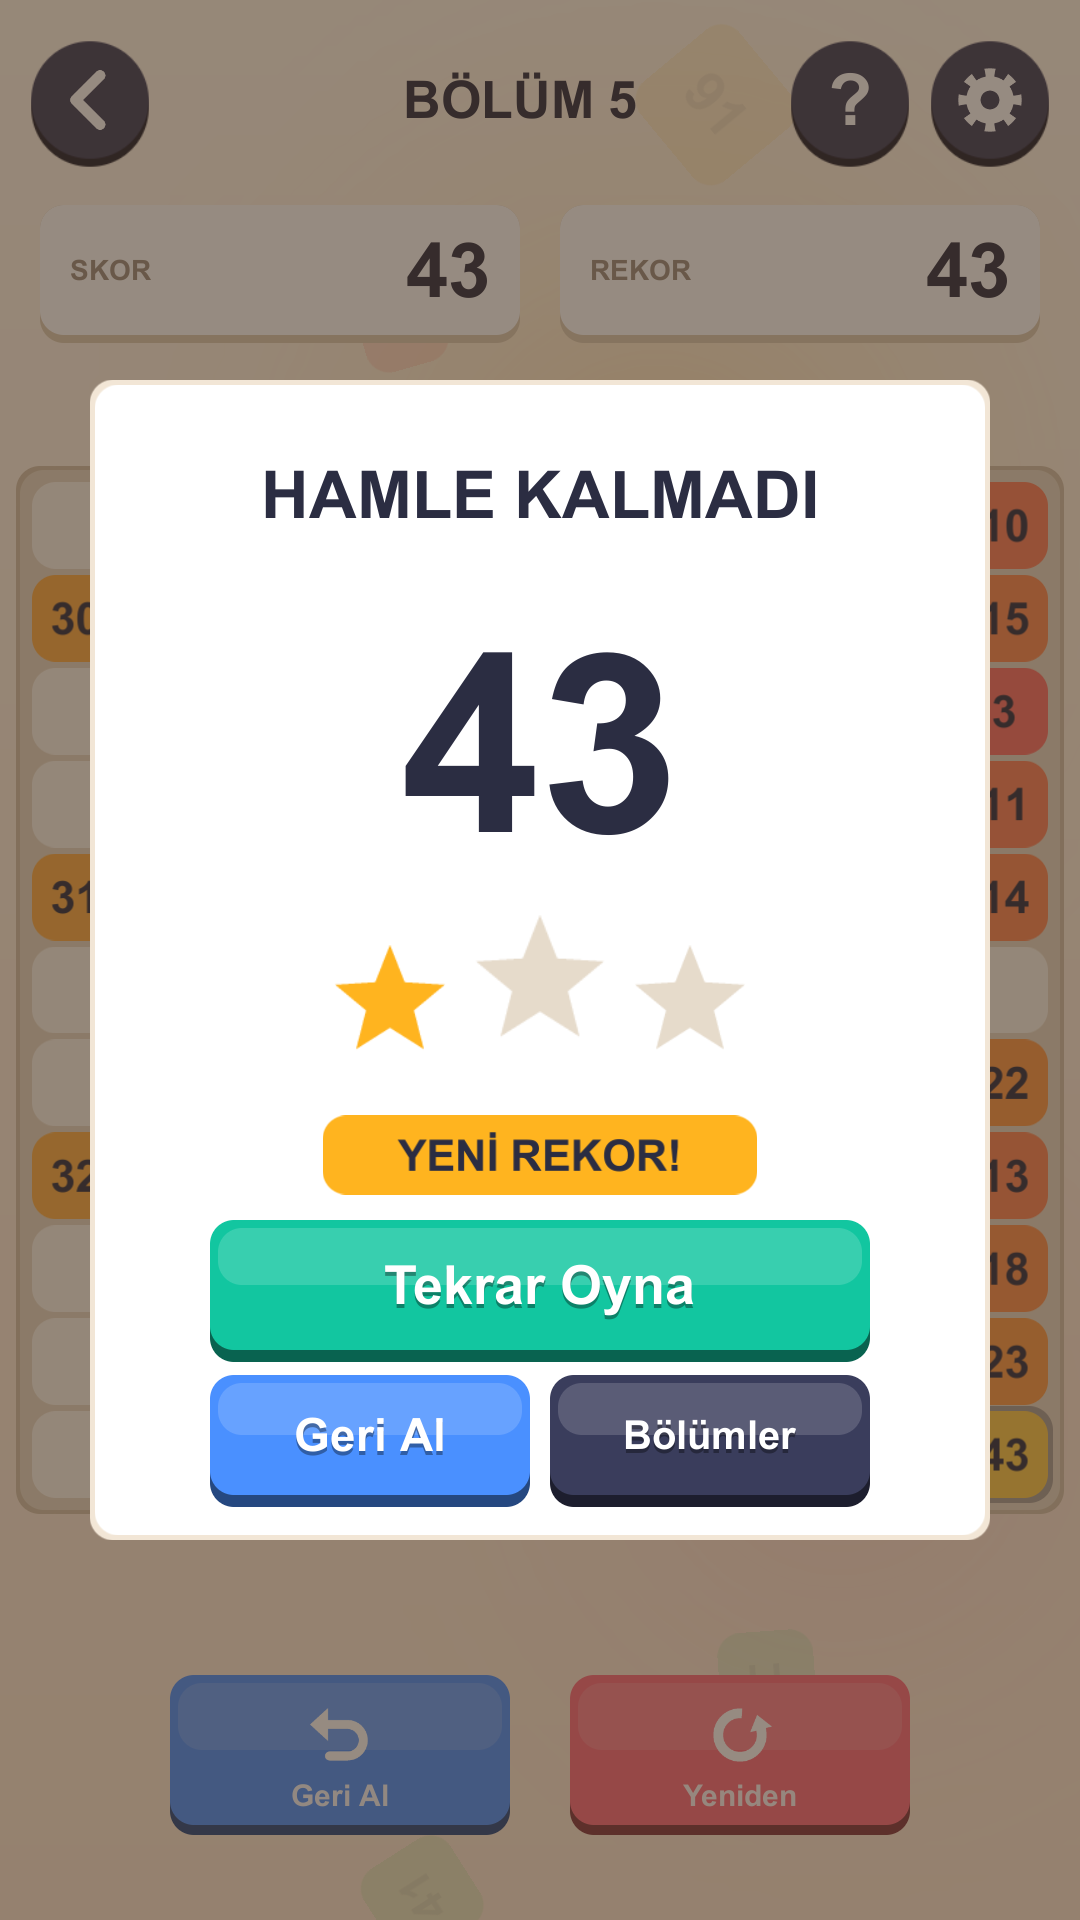
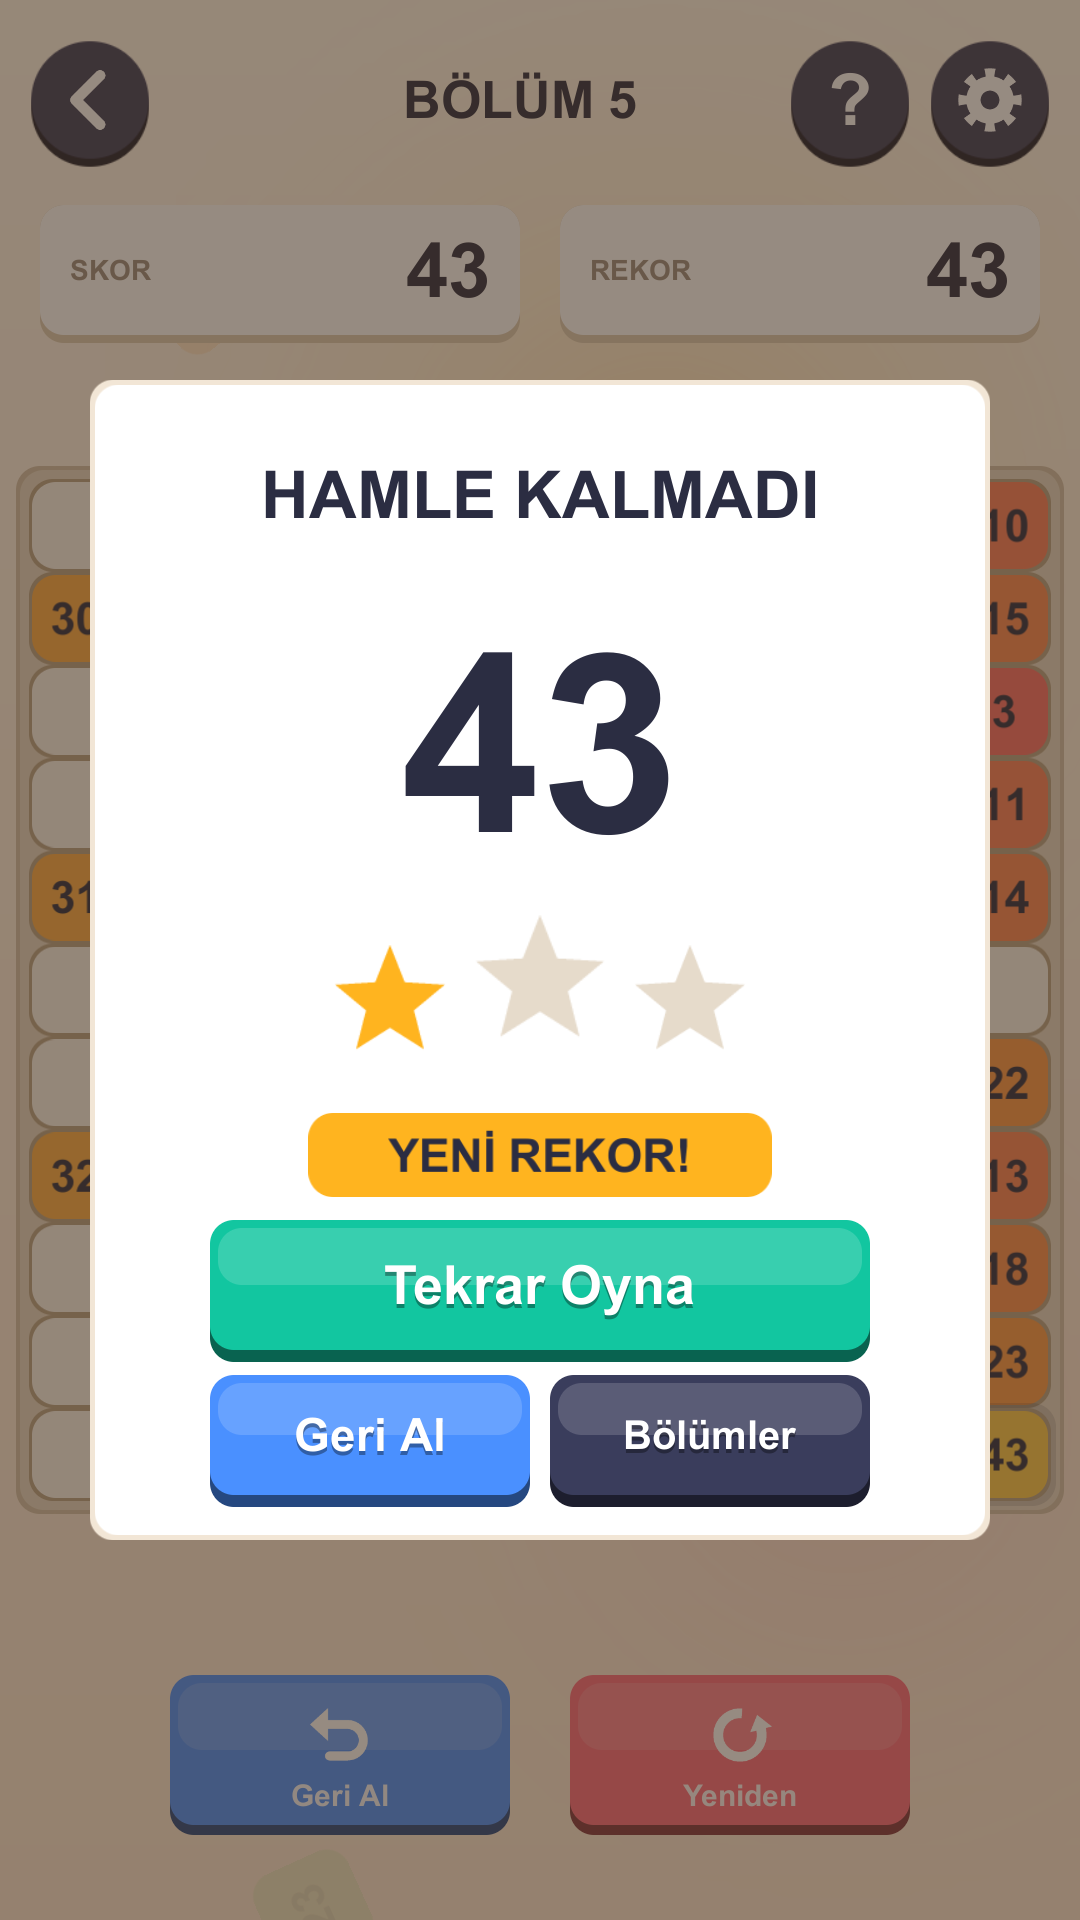
Darker cell borders, refreshed screenshots

diff --git a/Assets/_Game/Scripts/UI/GamePage.cs b/Assets/_Game/Scripts/UI/GamePage.cs
@@ -155,8 +155,11 @@ namespace HundredGame
             {
                 var rt = UIKit.Anchored(_cellsRoot, "Cell" + i, new Vector2(0.5f, 0.5f), new Vector2(0.5f, 0.5f), _layout.Centers[i], new Vector2(cell, cell));
                 var ring = UIKit.Panel(rt, "Ring", Color.clear);
-                ring.rectTransform.offsetMin = new Vector2(-5f, -5f);
-                ring.rectTransform.offsetMax = new Vector2(5f, 5f);
+                ring.rectTransform.offsetMin = new Vector2(-8f, -8f);
+                ring.rectTransform.offsetMax = new Vector2(8f, 8f);
+                var border = UIKit.Panel(rt, "Border", UIKit.H("B7A387"));
+                border.rectTransform.offsetMin = new Vector2(-3f, -3f);
+                border.rectTransform.offsetMax = new Vector2(3f, 3f);
                 var bg = UIKit.Panel(rt, "Bg", UIKit.Cell);
                 bg.raycastTarget = true;
                 var num = UIKit.Label(rt, "Num", "", fontSize, UIKit.Dark);
@@ -172,6 +175,7 @@ namespace HundredGame
                 if (_board.Value(i) < 0)
                 {
                     bg.color = Color.clear;
+                    border.color = Color.clear;
                     bg.raycastTarget = false;
                 }
             }
